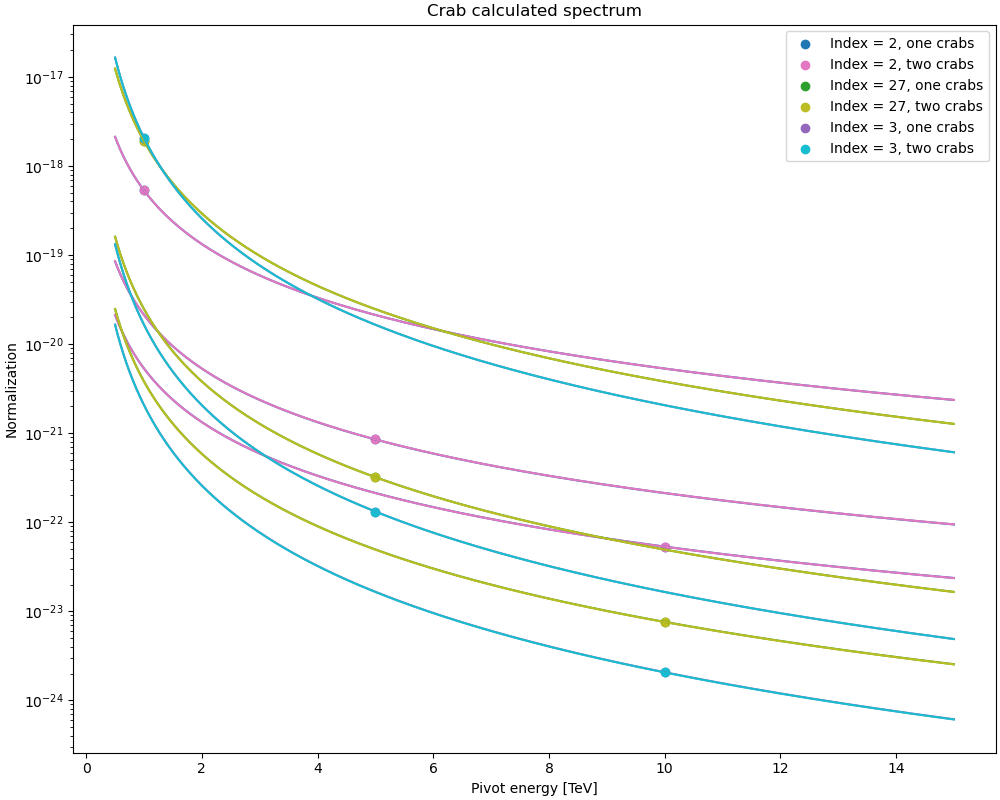
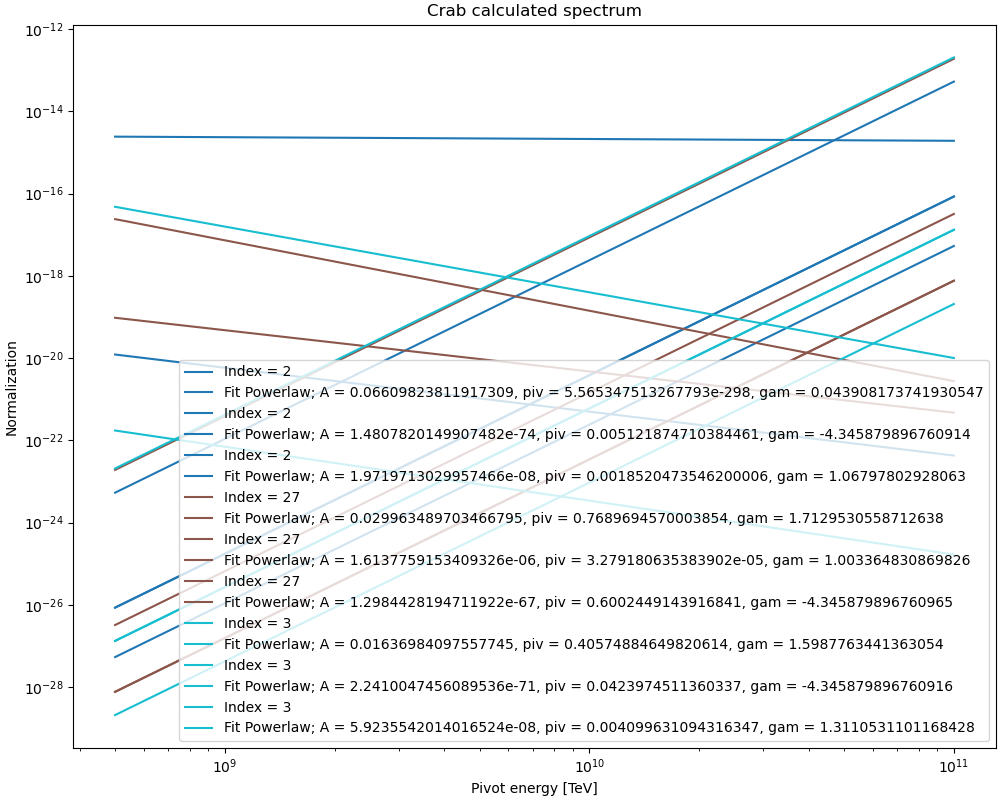
color

diff --git a/crabtests/plot_spec.py b/crabtests/plot_spec.py
@@ -1,30 +1,42 @@
 import matplotlib.pyplot as plt
 import pandas as pd
 import numpy as np
+from scipy.optimize import curve_fit
+
+def PowerLaw(x,A,pivot,gamma):
+    return A * (x/pivot) ** (-gamma)
+
 
 IX = ['2','27','3']
 inds = [2.0,2.7,3.0]
-NUM = ['one','two']
-c = plt.cm.tab10(np.linspace(0, 1, len(NUM)*len(IX))).reshape(len(NUM), len(IX), 4) 
+#NUM = ['one','two']
+num = 'one'
+PIV = [1e9,5e9,10e9]
 
-xarr = np.linspace(0.5,15,10000)  # in TeV
+xxs = np.logspace(np.log10(0.5e9),np.log10(100e9),200)
+xarr = np.logspace(np.log10(0.5e9),np.log10(100e9),1000)
 
-
+c = plt.cm.tab10(np.linspace(0, 1, len(IX))).reshape(len(IX), 4) 
 plt.figure(figsize=[10,8],layout='constrained')
 
 for j,ix in enumerate(IX):
-    for i,num in enumerate(NUM):
-        df = pd.read_csv(f"mod-nopiv-stacked-ind{ix}-{num}crab-results.csv")
-        pivot = df['pivot']
-        indminNorm = df['indminNorm']
+    norms = []
+    df = pd.read_csv(f"mod-nopiv-stacked-ind{ix}-{num}crab-results.csv")
+    pivot = df['pivot']
+    indminNorm = df['indminNorm']
+    
+    norms_cols = [f"norms_{k}" for k in range(200)]
+    norms_mat = df[norms_cols].values   # (3 rows, 200 vals)    
 
-        plt.scatter(pivot,indminNorm,color=c[i,j],label=f"Index = {ix}, {num} crabs")
-   
-        for k,pv in enumerate(pivot):
-            y = indminNorm[k] * (xarr/pv) ** -(inds[j]) 
-            plt.plot(xarr,y,color=c[i,j],label='_nolegend_')
+    for row in range(norms_mat.shape[0]):
+        norms = norms_mat[row,:]
+        popt, pcov = curve_fit(PowerLaw,xxs,norms,maxfev=10000)
+    
+        plt.plot(xxs,norms,color=c[j],label=f"Index = {ix}")
+        plt.plot(xarr,PowerLaw(xarr,*popt),color=c[j],
+            label=f"Fit Powerlaw; A = {popt[0]}, piv = {popt[1]}, gam = {popt[2]}")
 
-
+plt.xscale('log')
 plt.yscale('log')
 plt.xlabel("Pivot energy [TeV]")
 plt.ylabel("Normalization")
